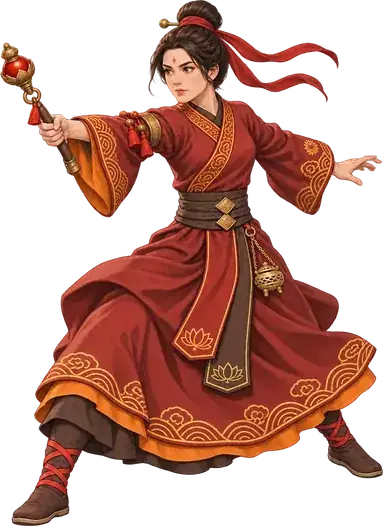
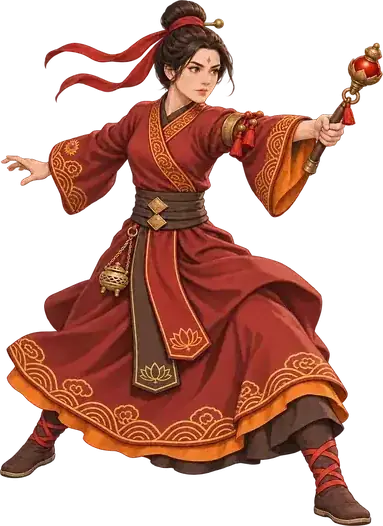
Hà Vân: đổi portrait theo phong cách mới, lật tranh đánh thường quay mặt sang phải

diff --git a/src/app/game/stage/rigs.ts b/src/app/game/stage/rigs.ts
@@ -2027,8 +2027,9 @@ const HA_VAN: WarriorRig = {
   fxColor: 0xd9502a,
   // Chĩa trượng cầu lửa tới (đánh thường), hạ trượng xòe tay (ra chiêu), giơ cao trượng chỉ tay gọi mưa lửa (tuyệt chiêu).
   poses: {
-    attack: { name: "pose-attack", texScale: 0.4, origin: { x: 22, y: 130 },
-      anchor: { x: 510, y: 1444 }, scale: 1, burst: { x: 65, y: 300 } },
+    // Tranh gốc quay mặt sang trái; đã lật ngang tệp để nhân vật phe trái chĩa trượng về phía đối thủ (tọa độ 1024 - x).
+    attack: { name: "pose-attack", texScale: 0.4, origin: { x: 45, y: 130 },
+      anchor: { x: 514, y: 1444 }, scale: 1, burst: { x: 959, y: 300 } },
     cast: { name: "pose-cast", texScale: 0.4, origin: { x: 158, y: 1 },
       anchor: { x: 493, y: 1533 }, scale: 1, burst: { x: 215, y: 400 } },
     ultimate: { name: "pose-ultimate", texScale: 0.4, origin: { x: 43, y: 7 },

diff --git a/docs/06-art/prompts/chan-dung-lich-su.md b/docs/06-art/prompts/chan-dung-lich-su.md
@@ -198,6 +198,8 @@ Mỗi tranh ra chiêu có tọa độ chỉnh tay trong `HA_VAN` (`src/app/game/
 
 **Hình động đứng đã đổi theo phong cách mới (09/11/2026):** ảnh chuẩn đứng của Shan được tách lớp bằng code (thân đã xóa trượng, nắm tay và bàn tay buông rồi vá phần vải phía sau; lớp `sword` là trượng ngắn, `arm` là nắm tay, `armR` là bàn tay buông, `head` là đầu). Các lớp khớp hoàn toàn khi ghép lại. Tọa độ mới trong `HA_VAN` (`rigs.ts`); trượng và nắm tay xoay quanh cổ tay (242, 603). Tới đây cả hình động lẫn tranh ra chiêu của Hà Vân đã cùng phong cách. Dải lụa đỏ trên tóc là lớp riêng (`ribbon`, vẽ sau thân), bay theo gió từ chỗ buộc ở búi tóc (gió trục dọc, biên độ 9); thân đã xóa dải lụa và vá lại chỗ nó phủ lên vai.
 
+**Hướng tranh ra đòn:** nhân vật phe trái đứng quay mặt sang phải, các tranh `attack`, `cast`, `ultimate` phải hướng về bên phải (phe phải được lật tự động). Bản `pose-attack` đầu quay sang trái nên đã **lật ngang tệp** (tọa độ trong `HA_VAN` là 1024 trừ x cũ). Khi tạo tranh mới, ghi rõ `facing right` trong dòng dáng. `portrait.webp` của Hà Vân (192×192, nền trong suốt) đã cắt lại từ ảnh chuẩn.
+
 ### 9.3 Khối phong cách toàn thân (biến thể của khối bản 2)
 
 Dán khối này **thay cho khối ở mục 3** khi tạo tranh toàn thân của Hà Vân (cùng cách vẽ, bỏ nền cảnh):
